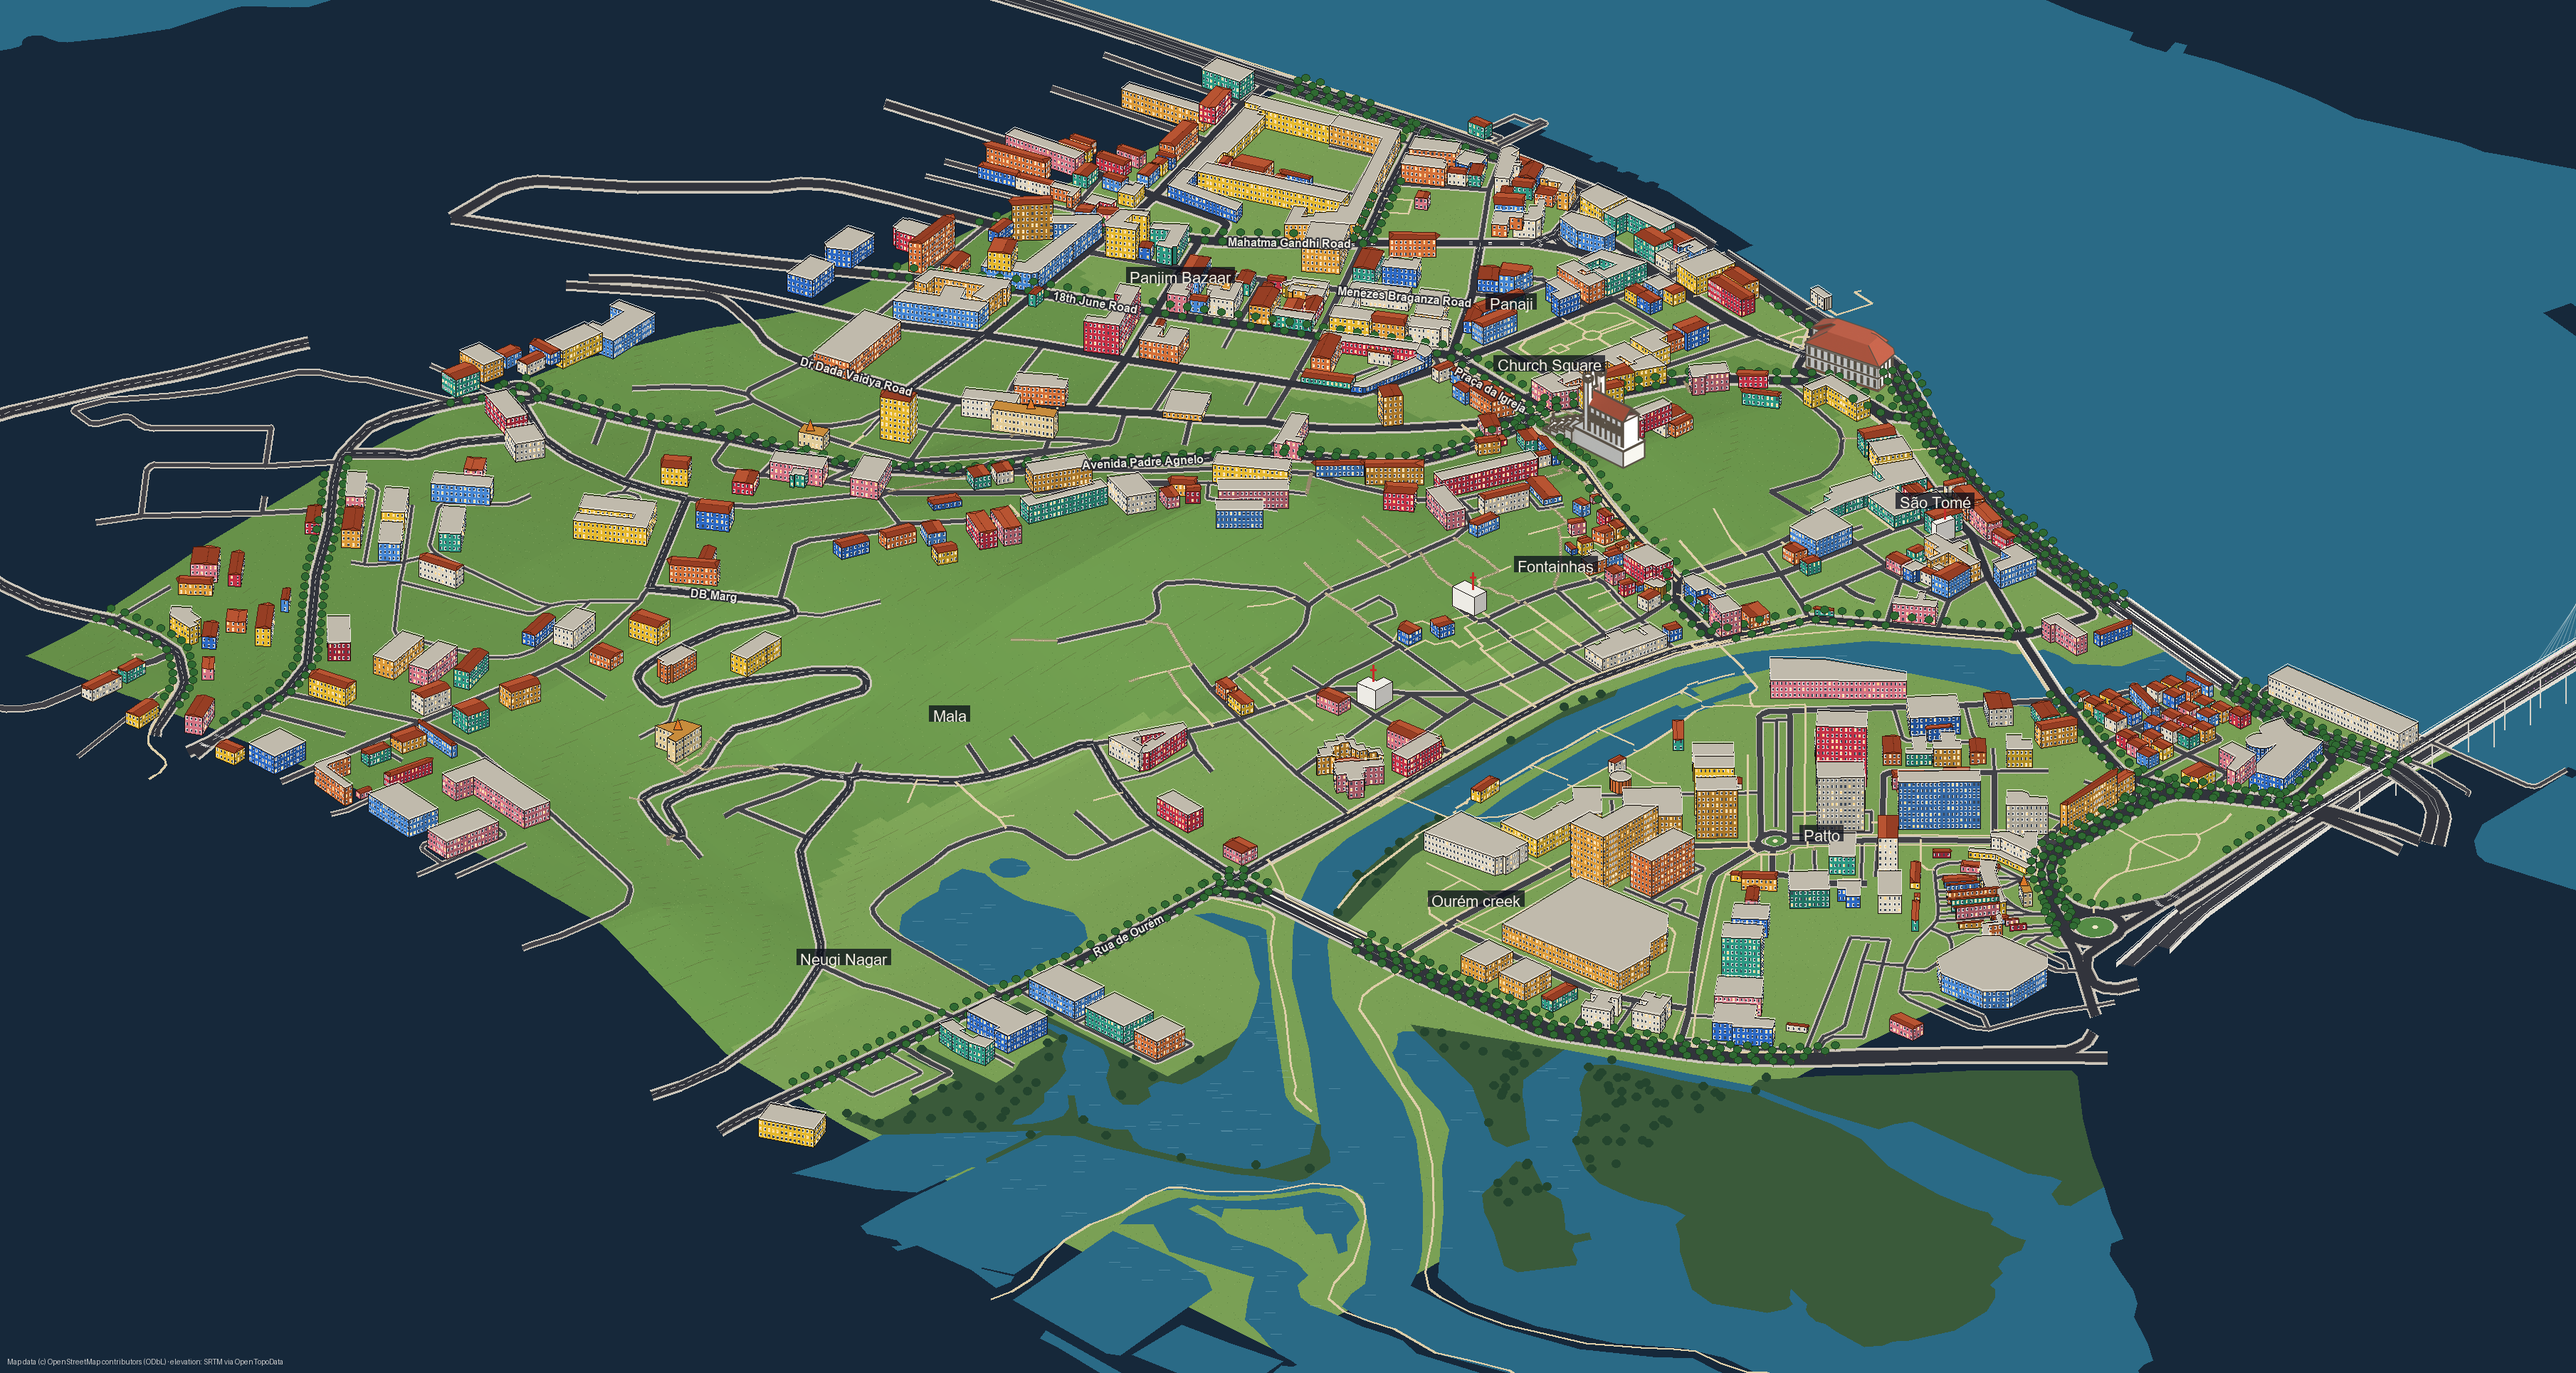
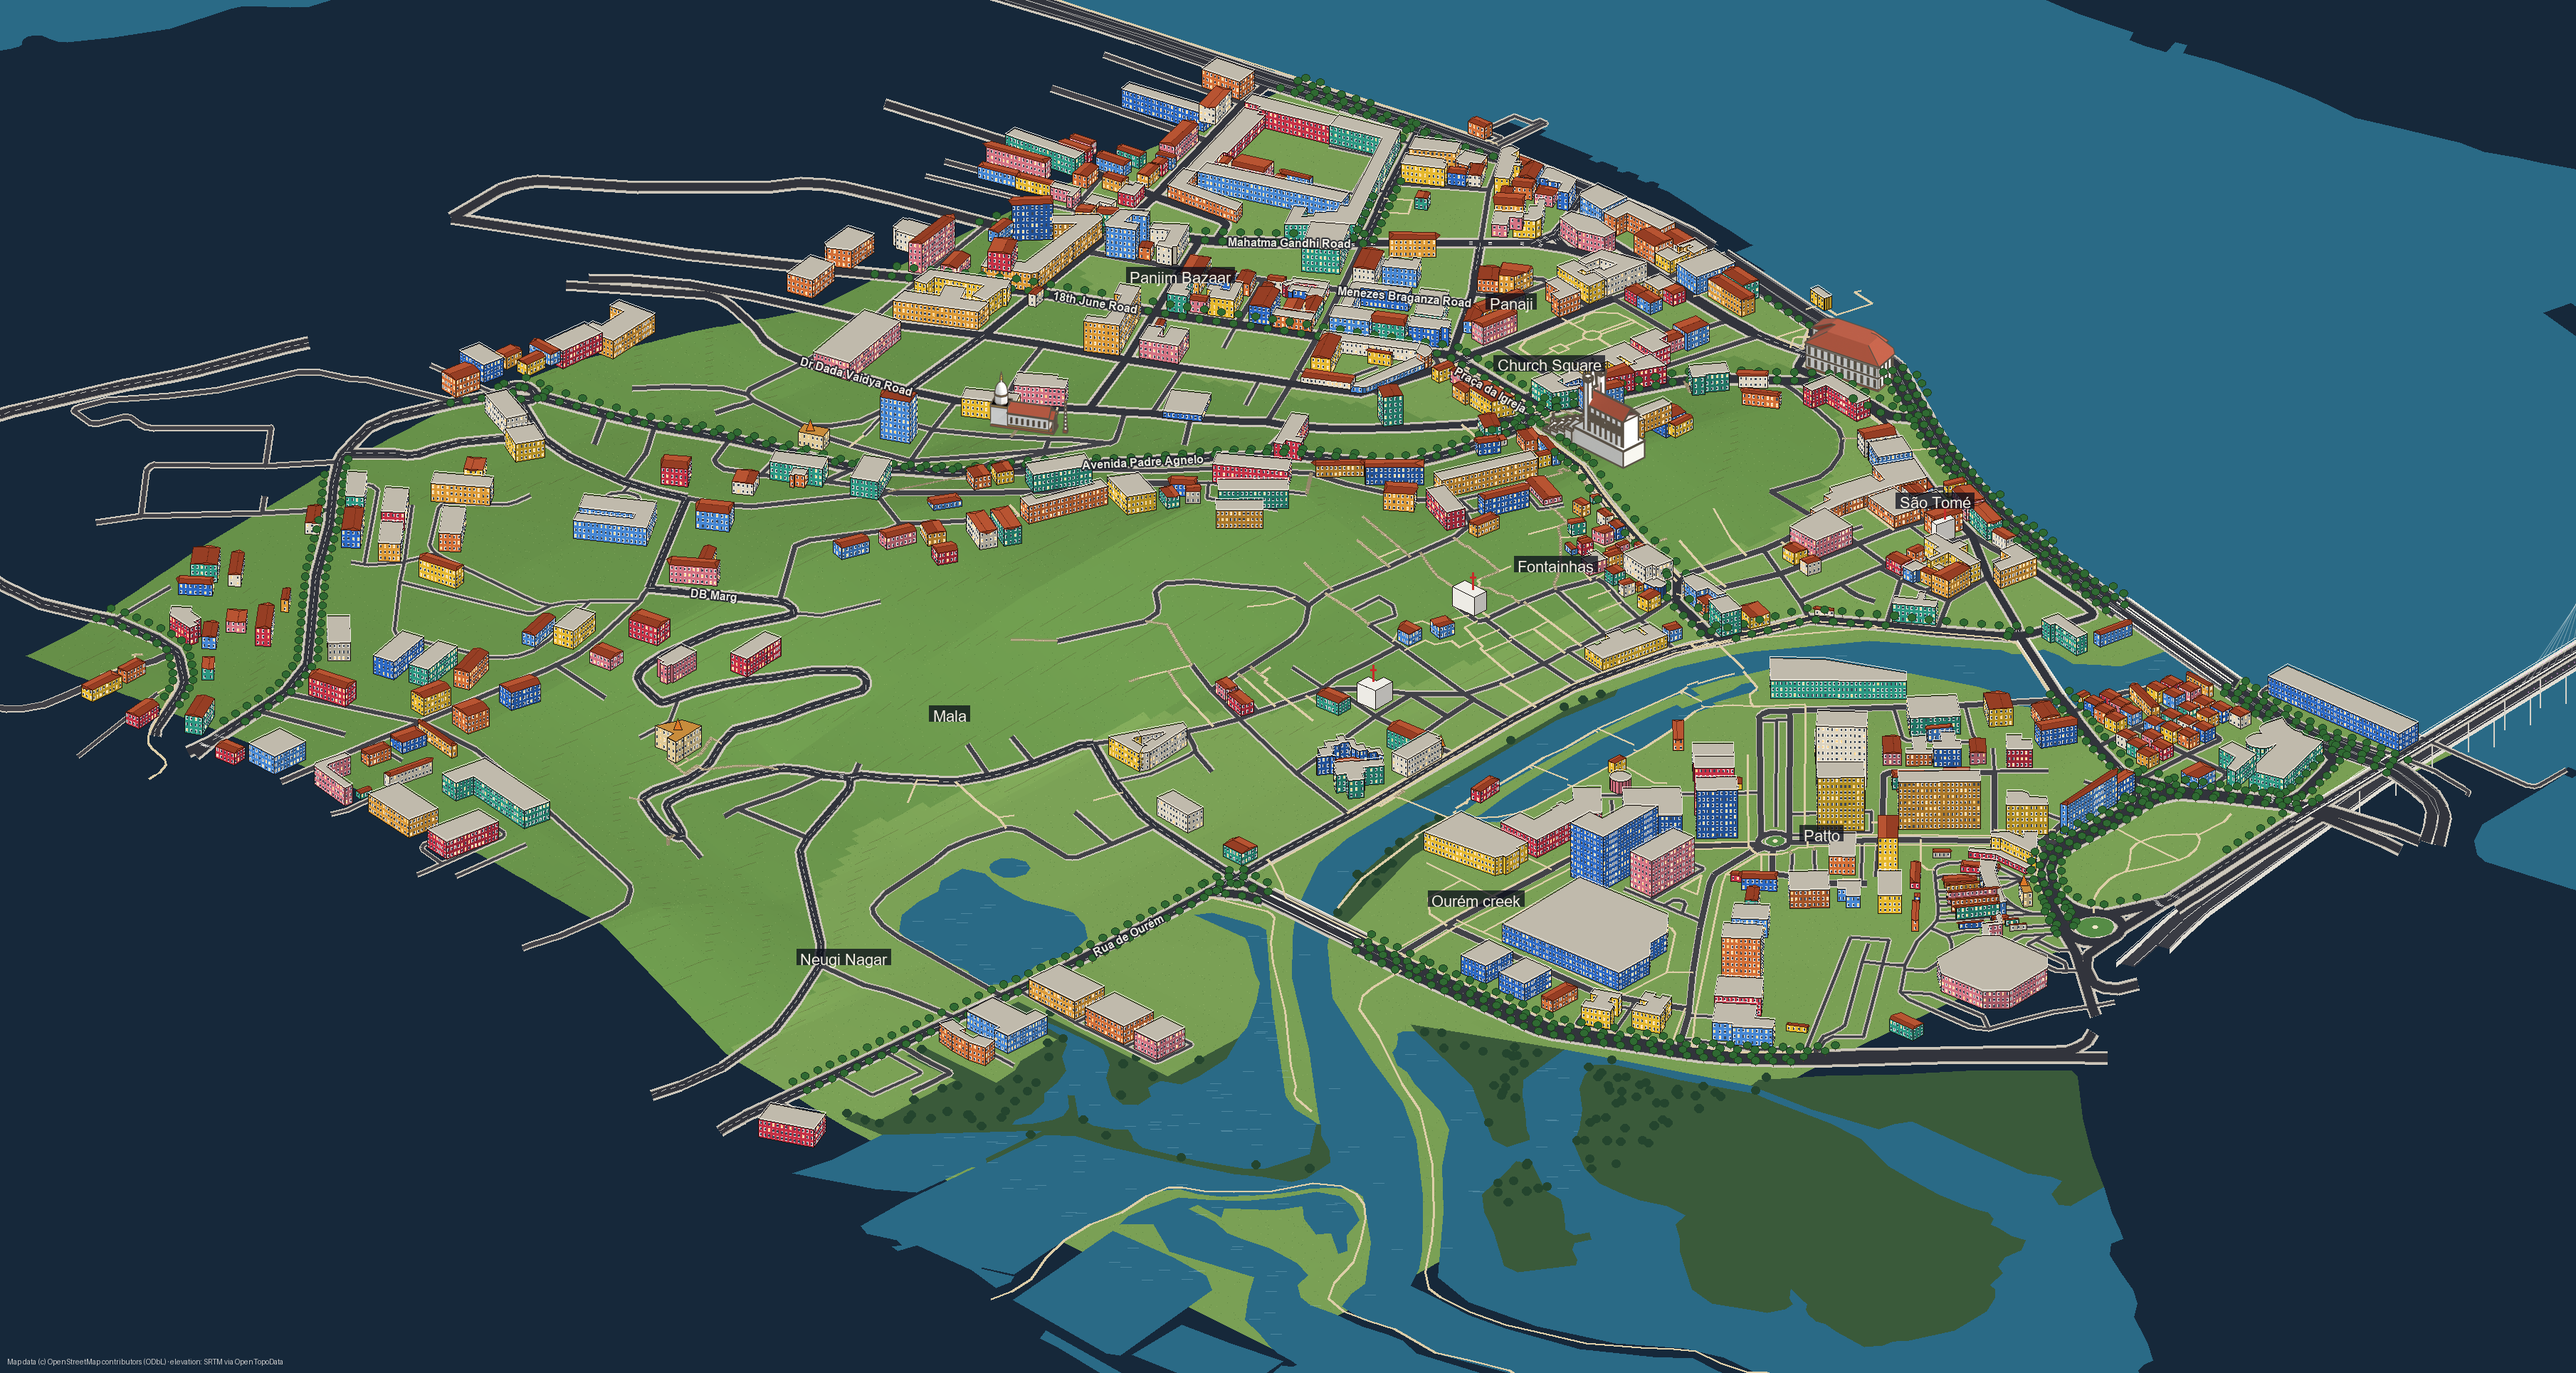
Panaji mock: the Mahalaxmi temple modelled in Blender on its real outline
tools/blender_mahalaxmi.py lays the temple on its OpenStreetMap outline
(way 1411213480, a hall about 54 x 13 m running south-west to north-
east): a laterite plinth, a whitewashed hall with ochre bands, arched
windows and a tiled gable roof, the sanctum at the south-west end under
an octagonal drum, a white dome and a golden kalash, a four-column porch
at the north-east end and a deepastambha before it. Which end is the
entrance, and the dome and colours, are to check against photographs.

diff --git a/tools/blender_mahalaxmi.py b/tools/blender_mahalaxmi.py
@@ -1,0 +1,127 @@
+"""The Mahalaxmi temple, Panjim, modelled in Blender for the Rakhondar mock.
+
+    "C:\\Program Files\\Blender Foundation\\Blender 5.1\\blender.exe" -b --python tools/blender_mahalaxmi.py
+
+Laid on the temple's OpenStreetMap outline (way 1411213480, 'Mahalakshimi Temple': a hall about 54 x 13 m running
+south-west to north-east) in the Goan temple manner: a whitewashed hall with an ochre band and a tiled roof, the
+sanctum at the south-west end under an octagonal drum, dome and golden kalash, a porch at the north-east end and a
+deepastambha (lamp tower) before it. Which end is the entrance, and the dome and colours, are to check against
+photographs. Metres; Blender x = east, y = north; origin = the outline's centre (15.49573 N, 73.82647 E).
+"""
+import bpy, json, math, os, pathlib
+from mathutils import Vector
+
+ROOT = pathlib.Path(__file__).resolve().parent.parent
+OUT = ROOT / 'sprites'; OUT.mkdir(exist_ok=True)
+ELEV = math.asin(0.5)
+S = 1.25 / math.cos(math.radians(45)) * 2
+ZX = (2.6 * 2) / (S * math.cos(ELEV))
+RES = 1400
+# the hall's axis, south-west to north-east, and its size, from the outline's corners
+A = Vector((22.6, 12.7)).normalized(); B = Vector((-A.y, A.x))
+HALF, HW = 26.0, 6.6
+ANG = math.atan2(A.y, A.x)
+
+
+def col(h):
+    h = h.lstrip('#'); c = [int(h[i:i + 2], 16) / 255 for i in (0, 2, 4)]
+    return (*[v / 12.92 if v <= 0.04045 else ((v + 0.055) / 1.055) ** 2.4 for v in c], 1)
+
+
+M = {}
+def mat(h, rough=0.8, metal=0.0):
+    if (h, metal) in M: return M[(h, metal)]
+    m = bpy.data.materials.new(h); m.use_nodes = True
+    b = next(n for n in m.node_tree.nodes if n.type == 'BSDF_PRINCIPLED')
+    b.inputs['Base Color'].default_value = col(h); b.inputs['Roughness'].default_value = rough; b.inputs['Metallic'].default_value = metal
+    M[(h, metal)] = m; return m
+
+
+for o in list(bpy.data.objects): bpy.data.objects.remove(o, do_unlink=True)
+bpy.ops.object.empty_add(location=(0, 0, 0)); root = bpy.context.active_object
+def own(o): o.parent = root; return o
+def at(u, v): p = A * u + B * v; return (p.x, p.y)
+
+
+def ubox(u0, u1, v0, v1, z0, z1, h):
+    """A box in the hall's own axes (u along, v across)."""
+    cx, cy = at((u0 + u1) / 2, (v0 + v1) / 2)
+    bpy.ops.mesh.primitive_cube_add(size=1, location=(cx, cy, (z0 + z1) / 2), rotation=(0, 0, ANG))
+    o = bpy.context.active_object; o.scale = (u1 - u0, v1 - v0, z1 - z0); o.data.materials.append(mat(h)); return own(o)
+
+
+def mesh(verts, faces, h, thick=0):
+    me = bpy.data.meshes.new('m'); me.from_pydata(verts, [], faces)
+    o = bpy.data.objects.new('m', me); bpy.context.collection.objects.link(o)
+    if thick: o.modifiers.new('t', 'SOLIDIFY').thickness = thick
+    o.data.materials.append(mat(h)); return own(o)
+
+
+WHITE, OCHRE, TILE, LAT, DARK, GOLD = '#f8f5ee', '#d9a441', '#a8492b', '#a85a34', '#3a2a22', '#d8a63a'
+# the plinth under the whole temple, and the hall
+ubox(-HALF, HALF, -HW, HW, 0, 1.2, LAT)
+ubox(-12, HALF - 4, -HW + 0.3, HW - 0.3, 1.2, 8.5, WHITE)
+for z0, z1 in ((1.2, 2.0), (7.6, 8.5)):
+    ubox(-12, HALF - 4, -HW + 0.2, HW - 0.2, z0, z1, OCHRE)
+for k in range(7):     # arched windows down both sides
+    u = -9 + k * 4.6
+    for side in (-1, 1):
+        ubox(u - 0.7, u + 0.7, side * (HW - 0.32) - 0.1, side * (HW - 0.32) + 0.1, 3.0, 6.0, DARK)
+# the hall's tiled gable roof
+ridge = 12.5
+for side in (-1, 1):
+    p = [at(-12.4, side * (HW + 0.6)), at(HALF - 3.6, side * (HW + 0.6)), at(HALF - 3.6, 0), at(-12.4, 0)]
+    mesh([(p[0][0], p[0][1], 8.5), (p[1][0], p[1][1], 8.5), (p[2][0], p[2][1], ridge), (p[3][0], p[3][1], ridge)], [(0, 1, 2, 3)], TILE, 0.3)
+# the sanctum at the south-west end: a square shrine, an octagonal drum, a dome and a golden kalash
+ubox(-HALF, -12, -HW, HW, 1.2, 11.5, WHITE)
+ubox(-HALF - 0.2, -11.8, -HW - 0.2, HW + 0.2, 10.6, 11.5, OCHRE)
+cu, cv = -19.0, 0.0
+cx, cy = at(cu, cv)
+bpy.ops.mesh.primitive_cylinder_add(vertices=8, radius=5.2, depth=4.5, location=(cx, cy, 13.75)); bpy.context.active_object.data.materials.append(mat(WHITE)); own(bpy.context.active_object)
+bpy.ops.mesh.primitive_cylinder_add(vertices=8, radius=5.5, depth=0.7, location=(cx, cy, 16.2)); bpy.context.active_object.data.materials.append(mat(OCHRE)); own(bpy.context.active_object)
+bpy.ops.mesh.primitive_uv_sphere_add(radius=5.0, location=(cx, cy, 16.5), segments=24, ring_count=12)
+o = bpy.context.active_object; o.scale = (1, 1, 1.15); o.data.materials.append(mat(WHITE)); own(o)
+bpy.ops.mesh.primitive_cylinder_add(vertices=8, radius=0.9, depth=1.6, location=(cx, cy, 22.8)); bpy.context.active_object.data.materials.append(mat(WHITE)); own(bpy.context.active_object)
+for z, r in ((24.0, 1.1), (25.3, 0.8), (26.3, 0.5)):
+    bpy.ops.mesh.primitive_uv_sphere_add(radius=r, location=(cx, cy, z), segments=12, ring_count=8); bpy.context.active_object.data.materials.append(mat(GOLD, 0.3, 0.8)); own(bpy.context.active_object)
+bpy.ops.mesh.primitive_cone_add(vertices=8, radius1=0.25, depth=1.6, location=(cx, cy, 27.4)); bpy.context.active_object.data.materials.append(mat(GOLD, 0.3, 0.8)); own(bpy.context.active_object)
+# the porch at the north-east end: four columns under a small tiled gable
+for v in (-4.5, -1.5, 1.5, 4.5):
+    ubox(HALF - 1.4, HALF - 0.4, v - 0.5, v + 0.5, 1.2, 7.0, WHITE)
+ubox(HALF - 4, HALF, -HW, HW, 7.0, 7.8, OCHRE)
+for side in (-1, 1):
+    p = [at(HALF - 4.2, side * (HW + 0.3)), at(HALF + 0.3, side * (HW + 0.3)), at(HALF + 0.3, 0), at(HALF - 4.2, 0)]
+    mesh([(p[0][0], p[0][1], 7.8), (p[1][0], p[1][1], 7.8), (p[2][0], p[2][1], 10.6), (p[3][0], p[3][1], 10.6)], [(0, 1, 2, 3)], TILE, 0.3)
+# the deepastambha before the porch: a tapering white tower ringed with lamp ledges, capped with a little dome
+du = HALF + 8; dx, dy = at(du, 0)
+ubox(du - 1.6, du + 1.6, -1.6, 1.6, 0, 1.6, LAT)
+for k in range(7):
+    r = 1.15 - k * 0.1; z0 = 1.6 + k * 2.0
+    bpy.ops.mesh.primitive_cylinder_add(vertices=8, radius=r, depth=2.0, location=(dx, dy, z0 + 1.0)); bpy.context.active_object.data.materials.append(mat(WHITE)); own(bpy.context.active_object)
+    bpy.ops.mesh.primitive_cylinder_add(vertices=8, radius=r + 0.35, depth=0.25, location=(dx, dy, z0 + 1.8)); bpy.context.active_object.data.materials.append(mat(OCHRE)); own(bpy.context.active_object)
+bpy.ops.mesh.primitive_uv_sphere_add(radius=0.8, location=(dx, dy, 16.2), segments=12, ring_count=8); bpy.context.active_object.data.materials.append(mat(GOLD, 0.3, 0.8)); own(bpy.context.active_object)
+root.scale = (1, 1, ZX)
+
+sc = bpy.context.scene
+sc.render.engine = 'CYCLES'; sc.cycles.samples = 40; sc.cycles.use_denoising = True
+sc.render.resolution_x = sc.render.resolution_y = RES
+sc.render.film_transparent = True; sc.render.image_settings.color_mode = 'RGBA'; sc.view_settings.view_transform = 'Standard'
+sc.render.use_freestyle = True; sc.render.line_thickness_mode = 'ABSOLUTE'; sc.render.line_thickness = 1.0
+fs = sc.view_layers[0].freestyle_settings; ls = fs.linesets[0] if fs.linesets else fs.linesets.new('ink')
+ls.linestyle.color = (0.1, 0.08, 0.06); ls.select_by_edge_types = True; ls.select_silhouette = ls.select_border = True; ls.select_crease = False
+w = sc.world or bpy.data.worlds.new('W'); sc.world = w; w.use_nodes = True
+bg = next(n for n in w.node_tree.nodes if n.type == 'BACKGROUND'); bg.inputs['Color'].default_value = (0.8, 0.84, 0.9, 1); bg.inputs['Strength'].default_value = 0.7
+ROT = int(os.environ.get('RK_ROT', 0)); theta = math.radians(45 + 90 * ROT)
+cd = bpy.data.cameras.new('cam'); cd.type = 'ORTHO'; cd.ortho_scale = RES / S
+cam = bpy.data.objects.new('cam', cd); bpy.context.collection.objects.link(cam)
+fwd = (-math.sin(theta) * math.cos(ELEV), math.cos(theta) * math.cos(ELEV), -math.sin(ELEV))
+cam.location = tuple(-300 * f for f in fwd); cam.rotation_euler = (math.pi / 2 - ELEV, 0, theta); sc.camera = cam
+sun = bpy.data.objects.new('sun', bpy.data.lights.new('sun', 'SUN')); bpy.context.collection.objects.link(sun)
+sun.data.energy = 3.0; sun.data.angle = math.radians(3); sun.rotation_euler = (math.radians(45), 0, theta + math.radians(70))
+name = 'landmark_mahalaxmi.png' if ROT == 0 else f'landmark_mahalaxmi_r{ROT}.png'
+sc.render.filepath = str(OUT / name)
+bpy.ops.render.render(write_still=True)
+if ROT == 0:
+    json.dump({'file': name, 'anchor': [RES / 2, RES / 2], 'px_per_m': S, 'lat': 15.49573, 'lon': 73.82647,
+               'covers': {'x': [-28, 28], 'y': [-20, 20]}}, open(OUT / 'landmark_mahalaxmi.json', 'w'))
+print('done')
